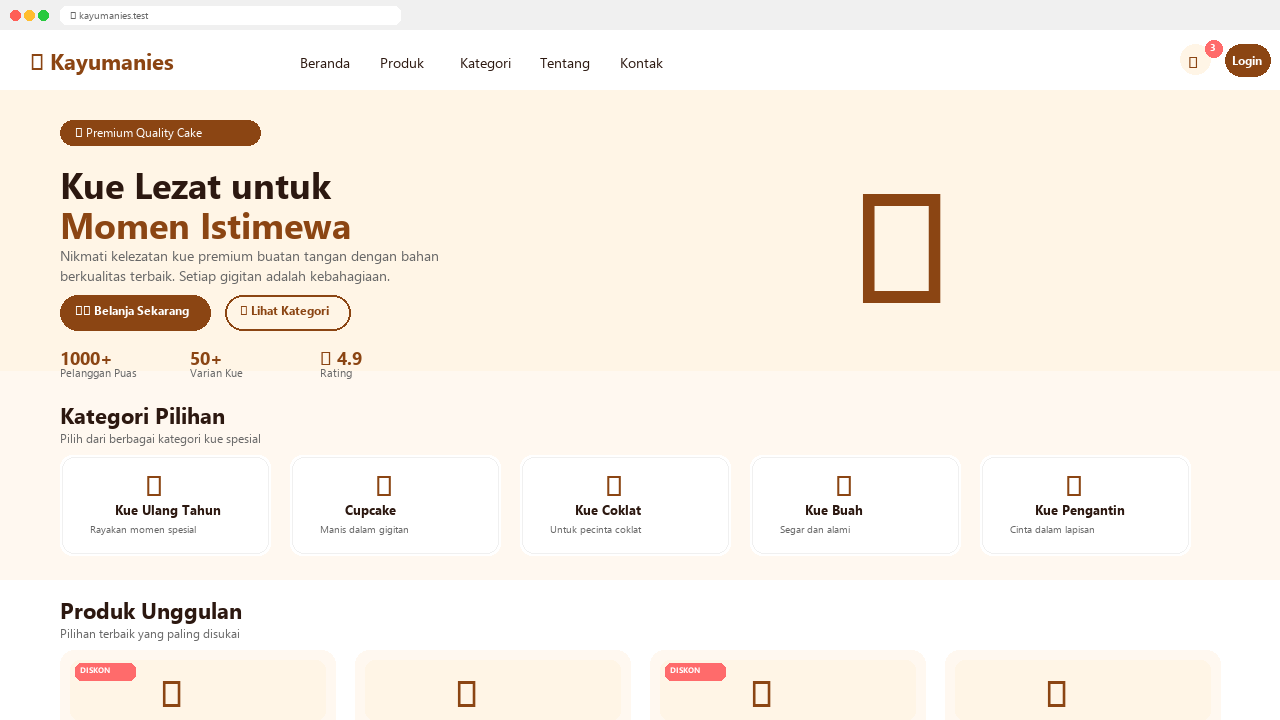
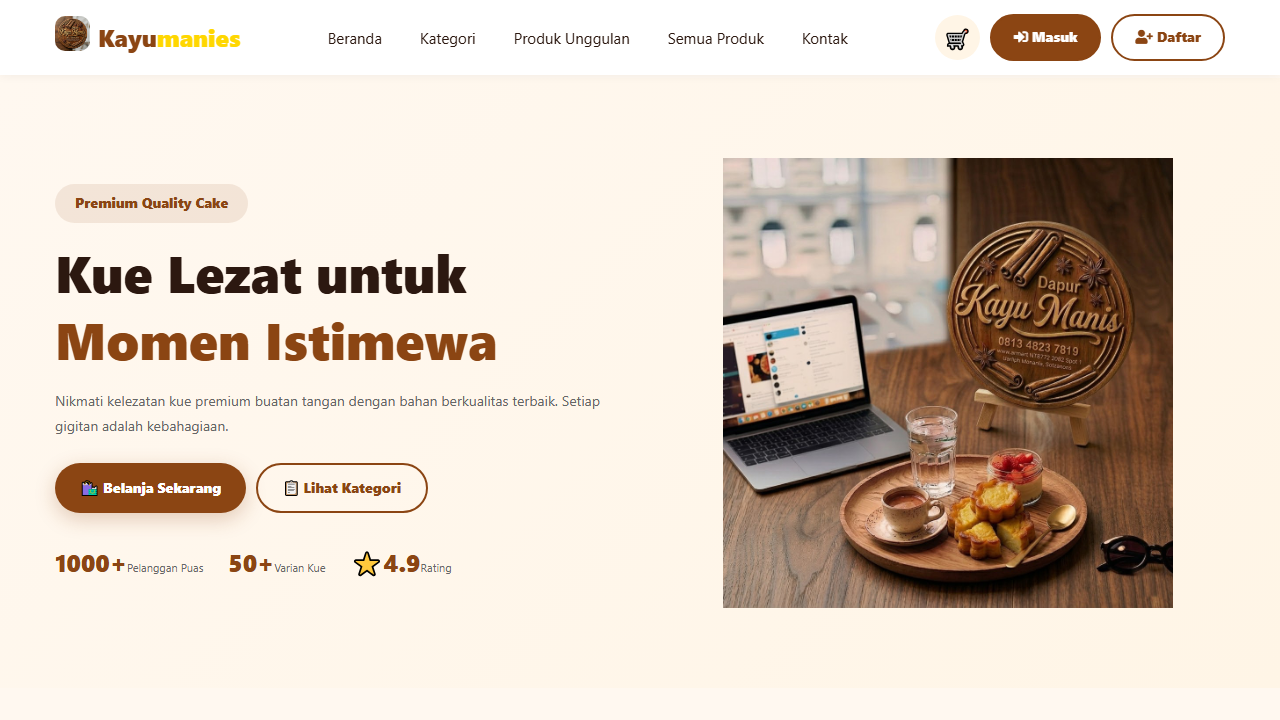
Replace with real screenshots from live app at 192.168.35.50:7777/kayumanies

diff --git a/take-screenshots.py b/take-screenshots.py
@@ -1,0 +1,57 @@
+#!/usr/bin/env python3
+"""
+Take real screenshots of Kayumanies app running at 192.168.35.50:7777/kayumanies
+Uses Playwright to capture actual browser screenshots
+"""
+
+import asyncio
+from playwright.async_api import async_playwright
+import os
+
+URL = "http://192.168.35.50:7777/kayumanies/"
+OUT = "assets/images"
+
+async def take_screenshots():
+    os.makedirs(OUT, exist_ok=True)
+
+    async with async_playwright() as p:
+        # --- DESKTOP SCREENSHOT (1280x720) ---
+        print("Opening desktop browser...")
+        browser = await p.chromium.launch(headless=True)
+        context = await browser.new_context(
+            viewport={"width": 1280, "height": 720},
+            device_scale_factor=1,
+        )
+        page = await context.new_page()
+        await page.goto(URL, wait_until="networkidle", timeout=30000)
+        await page.wait_for_timeout(2000)  # Wait for images to load
+
+        desktop_path = os.path.join(OUT, "screenshot-desktop.png")
+        await page.screenshot(path=desktop_path, full_page=False)
+        print(f"  [OK] Saved: {desktop_path}")
+        await browser.close()
+
+        # --- MOBILE SCREENSHOT (390x844 - iPhone 14 size) ---
+        print("Opening mobile browser...")
+        mobile_browser = await p.chromium.launch(headless=True)
+        mobile_context = await mobile_browser.new_context(
+            viewport={"width": 390, "height": 844},
+            device_scale_factor=3,
+            user_agent="Mozilla/5.0 (iPhone; CPU iPhone OS 16_0 like Mac OS X) AppleWebKit/605.1.15 (KHTML, like Gecko) Version/16.0 Mobile/15E148 Safari/604.1",
+        )
+        mobile_page = await mobile_context.new_page()
+        await mobile_page.goto(URL, wait_until="networkidle", timeout=30000)
+        await mobile_page.wait_for_timeout(2000)
+
+        mobile_path = os.path.join(OUT, "screenshot-mobile.png")
+        await mobile_page.screenshot(path=mobile_path, full_page=True)
+        print(f"  [OK] Saved: {mobile_path}")
+        await mobile_browser.close()
+
+    print("\n[DONE] Real screenshots captured successfully!")
+    print(f"   Desktop: {desktop_path}")
+    print(f"   Mobile:  {mobile_path}")
+
+
+if __name__ == "__main__":
+    asyncio.run(take_screenshots())